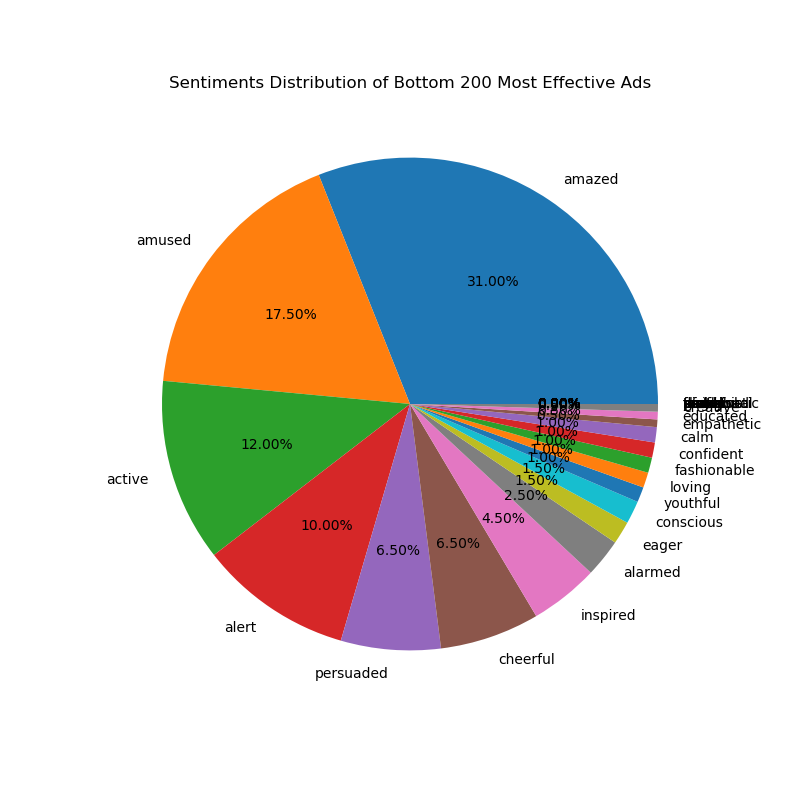
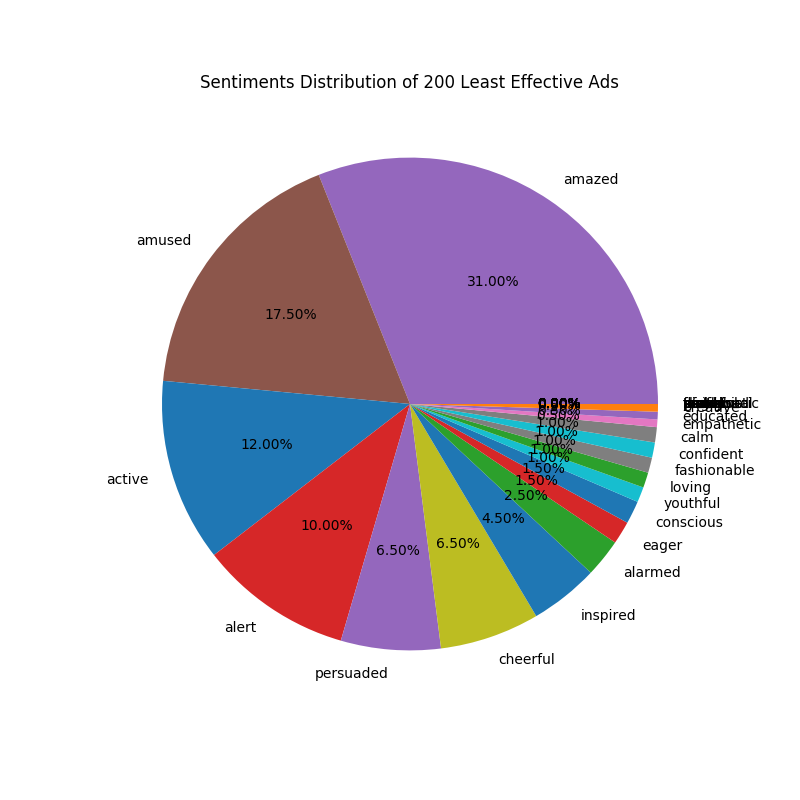
did some changes

Changed region(s): [[0.1875, 0.1875, 0.8438, 0.8125], [0.2188, 0.0938, 0.8125, 0.125]]

diff --git a/bottom_200_topics_sentiments_distribution.py b/bottom_200_topics_sentiments_distribution.py
@@ -70,25 +70,27 @@ plt.rcParams["figure.figsize"] = (17, 8)
 plt.barh(zero_to_thirtyeight, topics_height, align='center', tick_label=topics_labels)
 plt.ylabel("Topics")
 plt.xlabel("Counts")
-plt.title("Topics Distribution of Bottom 200 Most Effective Ads")
+plt.title("Topics Distribution of 200 Least Effective Ads")
 plt.savefig("bottom_200_topics_distribution_bar.png")
 
 plt.figure()
 plt.barh(zero_to_thirty, sentiments_height, align='center', tick_label=sentiments_labels)
 plt.ylabel("Sentiments")
 plt.xlabel("Counts")
-plt.title("Sentiments Distribution of Bottom 200 Most Effective Ads")
+plt.title("Sentiments Distribution of 200 Least Effective Ads")
 plt.savefig("bottom_200_sentiments_distribution_bar.png")
 
 plt.rcParams["figure.figsize"] = (8, 8)
 plt.figure()
-plt.title("Topics Distribution of Bottom 200 Most Effective Ads")
-plt.pie(topics_pie, labels=topics_labels, autopct='%.2f%%')
+topics_colors = ["C"+str(topics_list.index(topic) % 10) for topic in topics_labels]
+plt.title("Topics Distribution of 200 Least Effective Ads")
+plt.pie(topics_pie, labels=topics_labels, autopct='%.2f%%', colors=topics_colors)
 plt.savefig("bottom_200_topics_distribution_pie.png")
 
 plt.figure()
-plt.title("Sentiments Distribution of Bottom 200 Most Effective Ads")
-plt.pie(sentiments_pie, labels=sentiments_labels, autopct='%.2f%%')
+sentiments_colors = ["C"+str(sentiments_list.index(sentiment) % 10) for sentiment in sentiments_labels]
+plt.title("Sentiments Distribution of 200 Least Effective Ads")
+plt.pie(sentiments_pie, labels=sentiments_labels, autopct='%.2f%%', colors=sentiments_colors)
 plt.savefig("bottom_200_sentiments_distribution_pie.png")
 
 #plt.show()

diff --git a/top_200_topics_sentiments_distribution.py b/top_200_topics_sentiments_distribution.py
@@ -68,25 +68,27 @@ plt.rcParams["figure.figsize"] = (17, 8)
 plt.barh(zero_to_thirtyeight, topics_height, align='center', tick_label=topics_labels)
 plt.ylabel("Topics")
 plt.xlabel("Counts")
-plt.title("Topics Distribution of Top 200 Most Effective Ads")
+plt.title("Topics Distribution of 200 Most Effective Ads")
 plt.savefig("top_200_topics_distribution_bar.png")
 
 plt.figure()
 plt.barh(zero_to_thirty, sentiments_height, align='center', tick_label=sentiments_labels)
 plt.ylabel("Sentiments")
 plt.xlabel("Counts")
-plt.title("Sentiments Distribution of Top 200 Most Effective Ads")
+plt.title("Sentiments Distribution of 200 Most Effective Ads")
 plt.savefig("top_200_sentiments_distribution_bar.png")
 
 plt.rcParams["figure.figsize"] = (8, 8)
 plt.figure()
-plt.title("Topics Distribution of Top 200 Most Effective Ads")
-plt.pie(topics_pie, labels=topics_labels, autopct='%.2f%%')
+topics_colors = ["C"+str(topics_list.index(topic) % 10) for topic in topics_labels]
+plt.title("Topics Distribution of 200 Most Effective Ads")
+plt.pie(topics_pie, labels=topics_labels, autopct='%.2f%%', colors=topics_colors)
 plt.savefig("top_200_topics_distribution_pie.png")
 
 plt.figure()
-plt.title("Sentiments Distribution of Top 200 Most Effective Ads")
-plt.pie(sentiments_pie, labels=sentiments_labels, autopct='%.2f%%')
+sentiments_colors = ["C"+str(sentiments_list.index(sentiment) % 10) for sentiment in sentiments_labels]
+plt.title("Sentiments Distribution of 200 Most Effective Ads")
+plt.pie(sentiments_pie, labels=sentiments_labels, autopct='%.2f%%', colors=sentiments_colors)
 plt.savefig("top_200_sentiments_distribution_pie.png")
 
 #plt.show()

diff --git a/average_effectiveness_within_positive_and_negative_sentiments.py b/average_effectiveness_within_positive_and_negative_sentiments.py
@@ -40,10 +40,10 @@ for video_id, ratings in effective_data.items():
 
     effective_data_stats[video_id] = ratings_mean
     video_sentiment = sentiments_list[sentiments_data_stats[video_id]-1]
-    if video_sentiment in positive_sentiments_sentiments:
+    if video_sentiment in positive_sentiments:
         positive_sentiments_sum += ratings_mean
         positive_sentiments_count += 1
-    elif video_sentiment in negative_sentiment_sentiments:
+    elif video_sentiment in negative_sentiments:
         negative_sentiment_sum += ratings_mean
         negative_sentiment_count += 1
 
